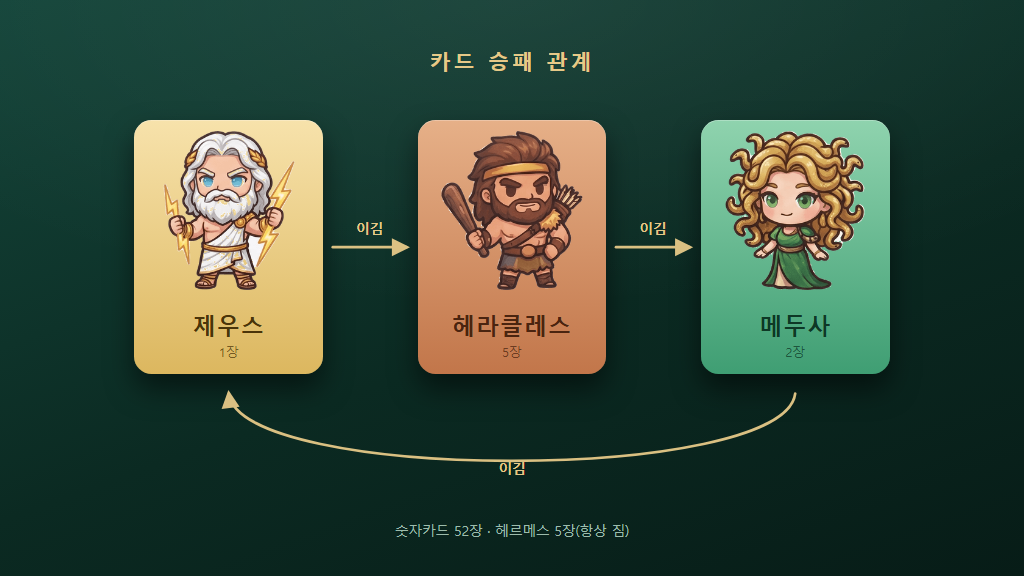
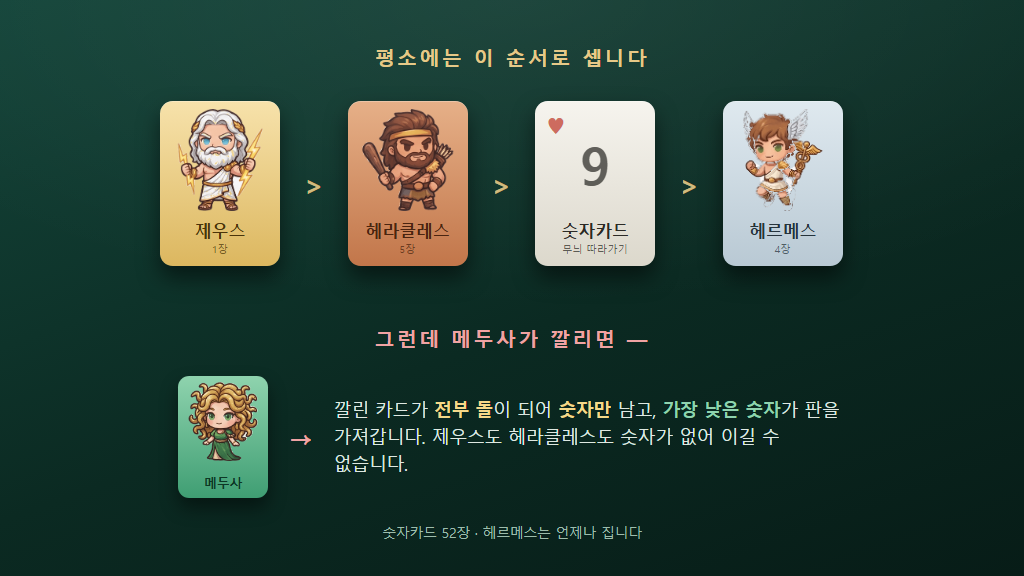
새 게임 규칙 반영 + 애드센스 심사 요건 보완
게임 규칙이 바뀌었는데 소개가 옛날 것으로 남아 있었다. 게임의 설명 화면과
src/game/trick.ts·constants.ts 를 읽고 다시 썼다.

바뀐 것 — 가위바위보 삼각형이 사라졌다
- 전: 제우스 > 헤라클레스 > 메두사 > 제우스 로 물고 물리는 구조
- 후: 제우스 > 헤라클레스 > 숫자카드 > 헤르메스 의 단순 서열.
  대신 메두사가 깔리면 그 판의 카드가 전부 돌이 되어 숫자만 남고,
  가장 낮은 숫자가 판을 가져간다. 제우스도 헤라클레스도 숫자가 없어 이길 수 없다
- 도표도 삼각형에서 "서열 + 뒤집기" 두 단으로 다시 그렸다. 그림이 규칙과
  어긋나면 설명이 아니라 오해를 만든다
- 헤르메스 장수(5→4), 보너스 설명도 지금 상수에 맞췄다

애드센스
- 모든 페이지 바닥글에 개인정보처리방침 링크를 넣었다. 문서 자체는 같은 도메인의
  게임 쪽에 있고 /privacy 가 그리로 보낸다 — 도메인이 하나라 방침도 하나면 된다.
  심사가 요구하는 문서인데 포트폴리오에서는 찾아갈 길이 없었다

diff --git a/src/about.html b/src/about.html
@@ -144,6 +144,12 @@
             <li><a href="/guestbook.html">방명록</a></li>
             <li><a href="/contact.html">연락</a></li>
             <li><a href="/sitemap.xml">사이트맵</a></li>
+            <!--
+              개인정보처리방침. 애드센스 심사가 요구하는 문서이고, 방문자가 어느 페이지에
+              있든 찾을 수 있어야 한다. 문서 자체는 같은 도메인의 게임 쪽에 있고
+              /privacy 가 그리로 보낸다 — 도메인이 하나라 방침도 하나면 된다.
+            -->
+            <li><a href="/privacy">개인정보처리방침</a></li>
           </ul>
         </nav>
 

diff --git a/src/contact.html b/src/contact.html
@@ -124,6 +124,12 @@
             <li><a href="/guestbook.html">방명록</a></li>
             <li><a href="/contact.html">연락</a></li>
             <li><a href="/sitemap.xml">사이트맵</a></li>
+            <!--
+              개인정보처리방침. 애드센스 심사가 요구하는 문서이고, 방문자가 어느 페이지에
+              있든 찾을 수 있어야 한다. 문서 자체는 같은 도메인의 게임 쪽에 있고
+              /privacy 가 그리로 보낸다 — 도메인이 하나라 방침도 하나면 된다.
+            -->
+            <li><a href="/privacy">개인정보처리방침</a></li>
           </ul>
         </nav>
 

diff --git a/src/guestbook.html b/src/guestbook.html
@@ -146,6 +146,12 @@
             <li><a href="/guestbook.html">방명록</a></li>
             <li><a href="/contact.html">연락</a></li>
             <li><a href="/sitemap.xml">사이트맵</a></li>
+            <!--
+              개인정보처리방침. 애드센스 심사가 요구하는 문서이고, 방문자가 어느 페이지에
+              있든 찾을 수 있어야 한다. 문서 자체는 같은 도메인의 게임 쪽에 있고
+              /privacy 가 그리로 보낸다 — 도메인이 하나라 방침도 하나면 된다.
+            -->
+            <li><a href="/privacy">개인정보처리방침</a></li>
           </ul>
         </nav>
 

diff --git a/src/index.html b/src/index.html
@@ -161,6 +161,12 @@
             <li><a href="/guestbook.html">방명록</a></li>
             <li><a href="/contact.html">연락</a></li>
             <li><a href="/sitemap.xml">사이트맵</a></li>
+            <!--
+              개인정보처리방침. 애드센스 심사가 요구하는 문서이고, 방문자가 어느 페이지에
+              있든 찾을 수 있어야 한다. 문서 자체는 같은 도메인의 게임 쪽에 있고
+              /privacy 가 그리로 보낸다 — 도메인이 하나라 방침도 하나면 된다.
+            -->
+            <li><a href="/privacy">개인정보처리방침</a></li>
           </ul>
         </nav>
 

diff --git a/src/projects.html b/src/projects.html
@@ -126,6 +126,12 @@
             <li><a href="/guestbook.html">방명록</a></li>
             <li><a href="/contact.html">연락</a></li>
             <li><a href="/sitemap.xml">사이트맵</a></li>
+            <!--
+              개인정보처리방침. 애드센스 심사가 요구하는 문서이고, 방문자가 어느 페이지에
+              있든 찾을 수 있어야 한다. 문서 자체는 같은 도메인의 게임 쪽에 있고
+              /privacy 가 그리로 보낸다 — 도메인이 하나라 방침도 하나면 된다.
+            -->
+            <li><a href="/privacy">개인정보처리방침</a></li>
           </ul>
         </nav>
 

diff --git a/src/templates/project.html b/src/templates/project.html
@@ -117,6 +117,12 @@
             <li><a href="/guestbook.html">방명록</a></li>
             <li><a href="/contact.html">연락</a></li>
             <li><a href="/sitemap.xml">사이트맵</a></li>
+            <!--
+              개인정보처리방침. 애드센스 심사가 요구하는 문서이고, 방문자가 어느 페이지에
+              있든 찾을 수 있어야 한다. 문서 자체는 같은 도메인의 게임 쪽에 있고
+              /privacy 가 그리로 보낸다 — 도메인이 하나라 방침도 하나면 된다.
+            -->
+            <li><a href="/privacy">개인정보처리방침</a></li>
           </ul>
         </nav>
 

diff --git a/src/404.html b/src/404.html
@@ -70,6 +70,12 @@
             <li><a href="/guestbook.html">방명록</a></li>
             <li><a href="/contact.html">연락</a></li>
             <li><a href="/sitemap.xml">사이트맵</a></li>
+            <!--
+              개인정보처리방침. 애드센스 심사가 요구하는 문서이고, 방문자가 어느 페이지에
+              있든 찾을 수 있어야 한다. 문서 자체는 같은 도메인의 게임 쪽에 있고
+              /privacy 가 그리로 보낸다 — 도메인이 하나라 방침도 하나면 된다.
+            -->
+            <li><a href="/privacy">개인정보처리방침</a></li>
           </ul>
         </nav>
 

diff --git a/content/projects/schoolking.md b/content/projects/schoolking.md
@@ -20,22 +20,25 @@ links:
 
 브라우저에서 바로 돌아가고, 폰에서 홈 화면에 추가하면 앱처럼 열립니다. 계정 없이 봇을 상대로 연습할 수 있고, 방을 만들어 나온 4자리 코드를 친구에게 보내면 실제 온라인 대전이 됩니다.
 
-![메두사 미용실의 카드 승패 관계 — 제우스는 헤라클레스를, 헤라클레스는 메두사를, 메두사는 다시 제우스를 이긴다](/img/projects/medusa-salon.png)
+![메두사 미용실의 카드 서열과 메두사의 뒤집기 — 제우스 > 헤라클레스 > 숫자카드 > 헤르메스 순이지만, 메두사가 깔리면 가장 낮은 숫자가 판을 가져간다](/img/projects/medusa-salon.png)
 
 *위 그림은 실제 화면을 찍은 것이 아니라 카드 관계를 나타낸 것입니다.*
 
-## 게임의 핵심
+## 게임의 핵심 — 메두사가 깔리면 판이 뒤집힙니다
 
-숫자카드 52장 위에 특수 카드 네 종류가 얹혀 있습니다. 그중 셋이 **가위바위보처럼 물고 물립니다.**
+숫자카드 52장 위에 특수 카드 네 종류가 얹혀 있습니다. 평소에는 서열이 단순합니다.
 
-- **제우스**는 전부 이깁니다 — 단, 메두사한테만 집니다
-- **헤라클레스**는 숫자카드와 메두사를 이깁니다 — 제우스한테는 집니다
-- **메두사**는 숫자카드와 제우스를 이깁니다 — 헤라클레스한테는 집니다
-- **헤르메스**는 항상 집니다. 여러 명이 내면 먼저 낸 사람이 이깁니다
+**제우스 > 헤라클레스 > 숫자카드 > 헤르메스.** 숫자카드끼리는 처음 나온 무늬를 따라가 가장 높은 끗수가 이기고, 헤르메스는 언제나 집니다.
 
-제일 센 카드가 무조건 이기는 구조가 아니라서, 상대가 무엇을 아껴두고 있는지 읽는 재미가 생깁니다.
+재미는 **메두사**가 만듭니다. 메두사가 한 장이라도 깔리면 **그 판에 깔린 카드가 전부 돌이 됩니다.** 무늬도, 특수카드의 능력도 사라지고 **숫자만 남습니다.** 그리고 **가장 낮은 숫자**가 그 판을 가져갑니다.
 
-이야기로도 앞뒤가 맞습니다. 메두사는 눈을 마주친 상대를 돌로 만들고 그 앞에서는 신도 예외가 아니며, 그 메두사를 베는 것은 영웅의 일입니다.
+- 제우스도 헤라클레스도 숫자가 없으니 **이길 수 없습니다.** 아껴둔 최고 카드가 한순간에 종잇장이 됩니다
+- **메두사를 낸 사람도 판을 못 가져갑니다.** 대신 강한 카드를 헛수고로 만든 값을 보너스로 받습니다
+- 그래서 "이 판을 이겨야 하나, 흘려보내야 하나" 를 매번 고르게 됩니다
+
+많이 이기는 게 아니라 **말한 만큼 이기는 것**이 목표라서, 이 뒤집기는 판을 가져오는 수단이자 남에게 떠넘기는 수단이 됩니다.
+
+이야기로도 앞뒤가 맞습니다. 메두사는 눈을 마주친 상대를 돌로 만들고, 그 앞에서는 신도 예외가 아닙니다.
 
 ## 주요 기능
 
@@ -44,7 +47,7 @@ links:
 - **연습 게임** — 계정 없이 봇을 상대로 바로 할 수 있습니다
 - **계정과 전적** — 구글·카카오 로그인, 지난 판 기록, 친구, 코인
 - **PWA** — 홈 화면에 설치하면 주소창 없이 앱처럼 열립니다
-- **보너스 점수** — 헤라클레스로 메두사 잡기처럼 특정 상황에 추가 점수. 단, **예측을 맞힌 사람만** 받습니다
+- **보너스 점수** — 메두사로 강한 판 뒤집기, 낮은 숫자로 이기기처럼 어려운 수에 추가 점수. 단, **예측을 맞힌 사람만** 받습니다
 
 ## 어떻게 만들었나
 
